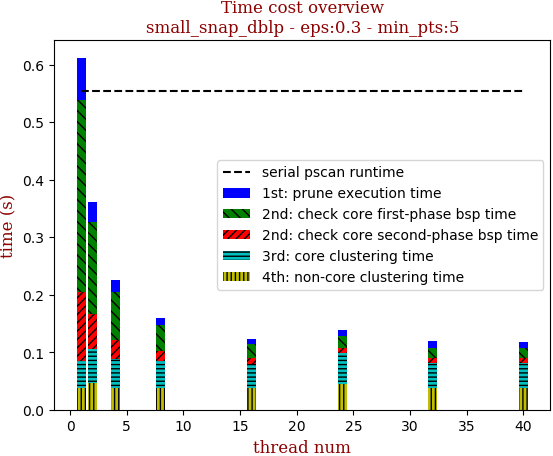
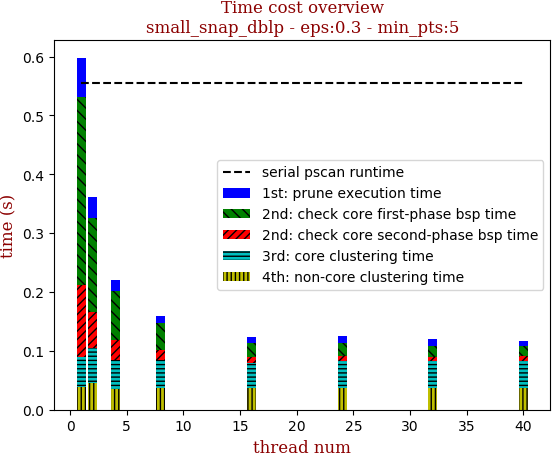
update exp and readme

diff --git a/README.md b/README.md
@@ -1,37 +1,34 @@
 # pScan Optimizing
 
-**Project**: pScan (Graph Clustering) Optimization.
-
-**Target**: Exact, Efficient(Time/Space), Scalable(Parallel).
-
-## My Work
-
-Please have a look at [pSCAN-refactor](pSCAN-refactor) and find some useful things(source codes and documents) for you. :smile:
-
-Experiments in detail are [here](python_experiments). 
-
-Detail: [scalability-exp](python_experiments/figures/figures-case-study0), [robust-scalability-exp](python_experiments/figures/figures-case-study2-robust), [workload-exp](python_experiments/figures/figures-case-study1).
-
-### Pscan and Pscan+ Overview
-
-* pScan: extension of spatial dbScan to graph, in order to explore structural clusters, current research focus on **unweighted, undirected not dynamic** graph.
+## pSCAN Introduction
+pScan: extension of spatial dbScan to graph, in order to explore structural clusters, current research focus on **unweighted, undirected not dynamic** graph.
 
 * two parameters: **density threshold**, **min number of neighbors**, input graph representation: csr representation.
 
 * density function: `number of common neighbors` / `(sqrt(du * dv))`
 
 * pScan basic concepts:
-  * :thumbsup: : introduce `min_cn`, alternative values: reachable, not_reachable, min_cn for guaranteeing a core
+  * important: introduce `min_cn`, alternative values: reachable, not_reachable, min_cn for guaranteeing a core
   * not super userful: introduce `similar_degree`, `effective_degree` to help checking core, if a vertex is a core iff `sd <= number of reachable neighbors <=ed`, which can be used as a pruning rule
 
 * pruning techniques:
-  * :thumbsup: : pre-processing, `PruneAndCrossLink`, prune not reachable `if (((long long) a) * eps_b2 < ((long long) b) * eps_a2)`, which is easy to deduced when the max of`number of common neighbors` is `min(du,dv)`, and utilize cross-link
-  * :thumbsup: : `common neighbor lower bound <=2`, must be similar, self and neighbor vertices, compute common neighbor with early exit, via utilizing `du` and `dv`
+  * important: pre-processing, `PruneAndCrossLink`, prune not reachable `if (((long long) a) * eps_b2 < ((long long) b) * eps_a2)`, which is easy to deduced when the max of`number of common neighbors` is `min(du,dv)`, and utilize cross-link
+  * important: `common neighbor lower bound <=2`, must be similar, self and neighbor vertices, compute common neighbor with early exit, via utilizing `du` and `dv`
   * not super useful: other tricks to reduce the number of evaluations of reachability, like `max-priority-queue`, `similar_degree`, `effective_degree`
 
-* **set-intersection** is the bottleneck in the current pScan design.
+## My Work Overview
 
-* detail: check the following table
+**Project**: pScan (Graph Clustering) Optimization.
+
+**Target**: Exact, Efficient(Time/Space), Scalable(Parallel).
+
+**set-intersection-count-with-early-exit**: computing the number of common neighbors, is the bottleneck in the current pScan design.
+
+Visual Aids: see [here](python_experiments/algorithm_vis).
+
+Experiments in detail are [here](python_experiments). 
+
+Detail: [scalability-exp](python_experiments/figures/figures-case-study0), [robust-scalability-exp](python_experiments/figures/figures-case-study2-robust), [workload-exp](python_experiments/figures/figures-case-study1).
 
 description | folder link
 --- | ---
@@ -39,3 +36,5 @@ pSCAN-fork-optimization | [pSCAN-refactor](pSCAN-refactor)
 pSCAN-fork-statistics | [pSCAN-statistics](pSCAN-statistics)
 python scripts during study | [python_playground](python_playground)
 python experiments | [python_experiments](python_experiments)
+
+

diff --git a/python_experiments/figures/figures-case-study2-robust/ReadMe.md b/python_experiments/figures/figures-case-study2-robust/ReadMe.md
@@ -11,12 +11,12 @@ with 40 full logical threads | with best thread num
 ![with full logical threads](../scalability_overview_robust/eps:0.3-min_pts:5-withalllogicalcores-runtime-speedup.png) | ![with best thread num](../scalability_overview_robust/eps:0.3-min_pts:5-withbestlogicalthreadnum-runtime-speedup.png)
 
 ```zsh
-best performance thread_num_lst: [40, 40, 32, 40, 32, 32, 40, 40]
+best performance thread_num_lst: [40, 40, 40, 40, 32, 24, 40, 40] 
 ```
 
 dataset | edge num | pscan runtime | pscan+ 40 logical-core full speedup | pscan+ best thread_num speedup | thread_num choice
 --- | --- | --- | --- | --- | ---
-dblp | 2,099,732 | 0.555s | 4.587 | 4.587 | 32
+dblp | 2,099,732 | 0.555s | 4.703 | 4.703 | 40
 pokec | 30,282,866 | 8.597s | 10.043 | 10.043 | 40
 livejournal | 69,362,378 | 21.846s | 9.433 | 9.433 | 40
 orkut | 234,370,166 | 164.248s | 16.992 | 16.992 | 40
@@ -37,14 +37,14 @@ overview | speedup
 
 thread_num | prune | check-core 1st bsp | check-core 2nd bsp | cluster-core | cluster-non-core | total | total speedup
 --- | --- | --- | --- | --- | --- | --- | ---
-1 | 0.074s | 0.333s | 0.12s | 0.048s | 0.037s | 0.615s | 1.000
-2 | 0.035s | 0.16s | 0.061s | 0.059s | 0.046s | 0.364s | 1.690
-4 | 0.02s | 0.084s | 0.032s | 0.052s | 0.037s | 0.227s | 2.709
-8 | 0.011s | 0.046s | 0.017s | 0.048s | 0.037s | 0.162s | 3.796
-16 | 0.009s | 0.024s | 0.01s | 0.043s | 0.037s | 0.124s | 4.960
-24 | 0.01s | 0.021s | 0.009s | 0.055s | 0.044s | 0.142s | 4.331
-32 | 0.012s | 0.018s | 0.008s | 0.045s | 0.037s | 0.121s | 5.083
-40 | 0.01s | 0.018s | 0.008s | 0.045s | 0.037s | 0.121s | 5.083
+1 | 0.066s | 0.32s | 0.122s | 0.052s | 0.038s | 0.599s | 1.000
+2 | 0.035s | 0.16s | 0.061s | 0.059s | 0.046s | 0.364s | 1.646
+4 | 0.019s | 0.082s | 0.034s | 0.049s | 0.036s | 0.221s | 2.710
+8 | 0.011s | 0.046s | 0.017s | 0.048s | 0.037s | 0.162s | 3.698
+16 | 0.009s | 0.024s | 0.01s | 0.043s | 0.037s | 0.124s | 4.831
+24 | 0.012s | 0.023s | 0.009s | 0.045s | 0.037s | 0.128s | 4.680
+32 | 0.012s | 0.018s | 0.008s | 0.045s | 0.037s | 0.121s | 4.950
+40 | 0.009s | 0.017s | 0.009s | 0.045s | 0.037s | 0.118s | 5.076
 
 ## Medium: Pokec
 
